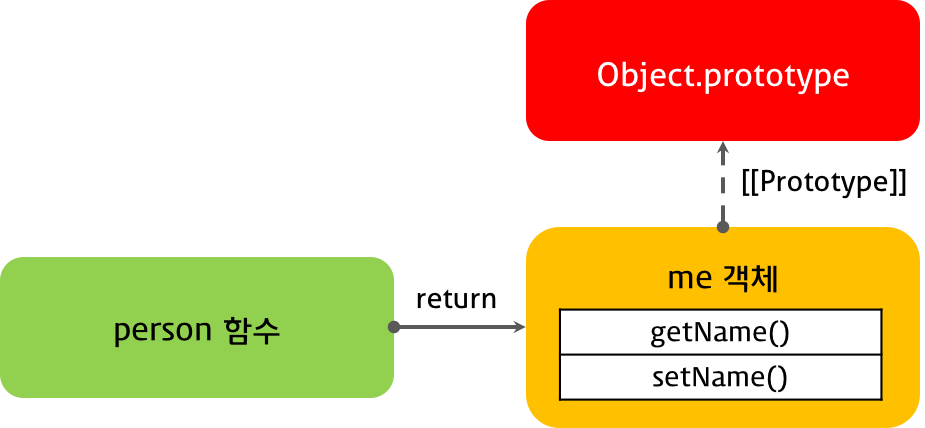
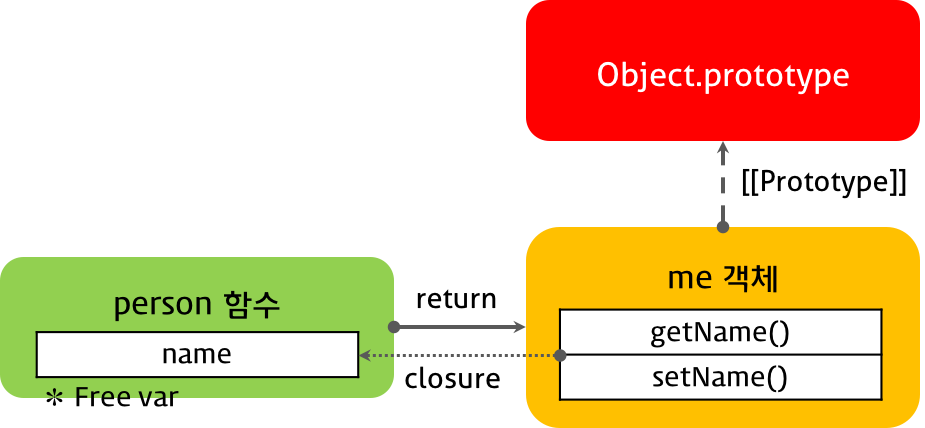
updated

Changed region(s): [[0.0303, 0.6682, 0.6357, 0.972]]

diff --git a/_posts/2016-01-23-Javascript-Object-Oriented-Programming.md b/_posts/2016-01-23-Javascript-Object-Oriented-Programming.md
@@ -485,7 +485,7 @@ var mammal = function (spec) {
   return that;
 };
 
-var myMammal = mammal({name: 'Herb'});
+var myMammal = mammal({name: 'Lee'});
 ```
 
 `spec` 객체에 인스턴스를 만드는데 필요한 모든 정보를 담아 Constructor에 전달한다.
@@ -557,7 +557,7 @@ console.log(name);
 
 ①의 name 변수는 private 변수가 된다. 자바스크립트는 function-level scope를 제공하므로 함수 내의 변수는 외부에서 참조할 수 없다. 만약에 var 때신 this를 사용하면 public 멤버가 된다. 단 new 키워드로 객체를 생성하지 않으면 this는 생성된 객체에 바인딩되지 않고 전역객체에 연결된다.
 
-그리고 public 메서드 getName, setName은 클로저로서 private 변수에 접근할 수 있다. 이것이 기본적인 정보 은닉 방법이다.
+그리고 public 메서드 getName, setName은 클로저로서 private 변수(자유 변수)에 접근할 수 있다. 이것이 기본적인 정보 은닉 방법이다.
 
 위 예제를 조금 더 정리해보자.
 
@@ -672,20 +672,18 @@ console.log(me.__proto__ === Object.prototype); // true: 객체 리터럴 방식
 var Person = function() {
   var name;
 
-  var getName = function() {
-    return name;
+  var F = function() {};
+
+  F.prototype = {
+    getName: function() {
+      return name;
+    },
+    setName: function(arg) {
+      name = arg;
+    }
   };
 
-  var setName = function(arg) {
-    name = arg;
-  };
-
-  var Constructor = function() {};
-
-  Constructor.prototype.getName = getName;
-  Constructor.prototype.setName = setName;
-
-  return Constructor;
+  return F;
 }();
 
 var me = new Person();
@@ -706,7 +704,63 @@ you.setName('Park')
 console.log(you.getName());
 ```
 
-Person 함수는 생성자 함수로 사용될 Constructor 함수를 반환하였다. 결국 new Person()과 new Constructor()는 같은 의미가 된다.
-
 ![module pattern](/img/module_pattern_2.png)
-{: style="max-width:700px; margin:10px auto;"}
+{: style="max-width:730px; margin:10px auto;"}
+
+IIFE(즉시호출함수표현식: Immediately Invoke Function Expression)가 동작하여 변수 Person에 F 생성자 함수가 할당되었다. 결국 new Person()과 new F()는 같은 의미가 된다. Person.prototype의 메서드 getName, setName은 클로저로서 private 변수(자유 변수)에 접근할 수 있다.
+
+그런데 위 예제도 문제가 있다. 모듈 패턴이 IIFE에 의해 반환한 생성자 함수는 유일한 함수 객체이다. IIFE은 단 한번만 실행되기 때문인데 그 결과 이 생성자 함수로 여러개의 객체를 생성했을 때 각 객체는 자유변수를 공유하게 된다.
+
+```javascript
+me.setName('Lee')
+console.log(me.getName());  // `Lee`
+
+you.setName('Park')
+console.log(you.getName()); // 'Park'
+
+console.log(me.getName());  // 'Park'
+```
+
+다른 방법을 찾아보자.
+
+```javascript
+var Person = function(arg) {
+  var name;
+
+  function F(arg) {
+    name = arg ? arg : '';
+    console.log('hello');
+  };
+
+  F.prototype = {
+    getName: function() {
+      return name;
+    },
+    setName: function(arg) {
+      name = arg;
+    }
+  };
+
+  return new F(arg);
+};
+
+var me = new Person('Lee');
+var you = new Person('Kim');
+
+console.log((Person.prototype === me.__proto__) && (Person.prototype === you.__proto__));
+
+console.log(me.getName());
+
+me.setName('Choi')
+console.log(me.getName());
+
+console.log(you.getName());
+
+you.setName('Park')
+console.log(you.getName());
+```
+
+![module pattern](/img/module_pattern_3.png)
+{: style="max-width:730px; margin:10px auto;"}
+
+캡슐화를 구현하는 방법은 다양하다. 다양한 방법을 잘 분석하고 각각의 장단점을 파악하는 것이 보다 효율적인 코드를 작성하는데 중요하다. 

diff --git a/_posts/2016-01-22-Javascript-Closure.md b/_posts/2016-01-22-Javascript-Closure.md
@@ -46,6 +46,8 @@ inner();
 
 위의 예제는 자신을 포함하고 있는 외부함수보다 내부함수가 더 오래 유지되는 경우인데 이때 내부함수가 외부함수의 지역변수에 접근 할 수 있고, 외부함수는 외부함수의 지역변수를 사용하는 내부함수가 소멸될 때까지 소멸되지 못하고 상태가 유지되며 내부함수에 의해서 소멸하게 되는 특성을 클로저(Closure)라고 부른다.
 
+클로저에 의해 참조되는 외부함수의 변수 즉 outerFunc 함수의 변수 x를 `자유변수`(Free variable)라고 부른다. 클로저라는 이름은 자유변수에 함수가 닫혀있다(closed)라는 의미로 의역하면 자유변수에 엮여있는 함수라는 뜻이다.
+
 [실행 컨텍스트](http://ungmo2.github.io/javascript/Javascript-Execution-Context/)의 관점에 설명하면, 내부함수가 유효한 상태에서 외부함수가 종료하여 외부함수의 실행 컨텍스트가 반환되어도, 외부함수 실행 컨텍스트 내의 `Activation object`(변수, 함수정의 등의 정보를 가지고 있다)는 유효하여 내부함수가 `Scope-chain`을 통해 참조할 수 있는 것을 의미한다.
 
 따라서 외부함수가 이미 반환되었어도 외부함수 내의 변수는 이를 필요로 하는 내부함수가 하나 이상 존재하는 경우 계속 유지된다. 이때 내부함수가 외부함수에 있는 변수의 복사본이 아니라 실제 변수에 접근한다는 것에 주의하여야 한다.
